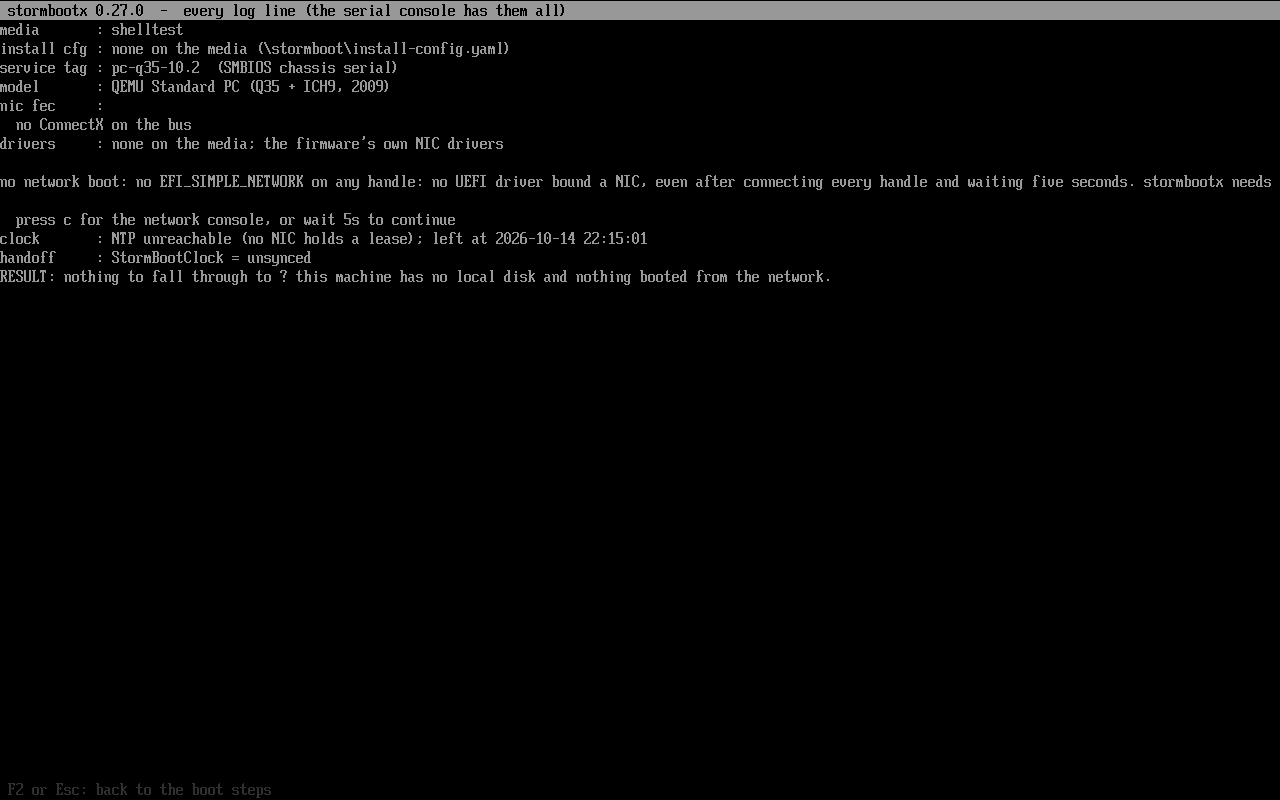
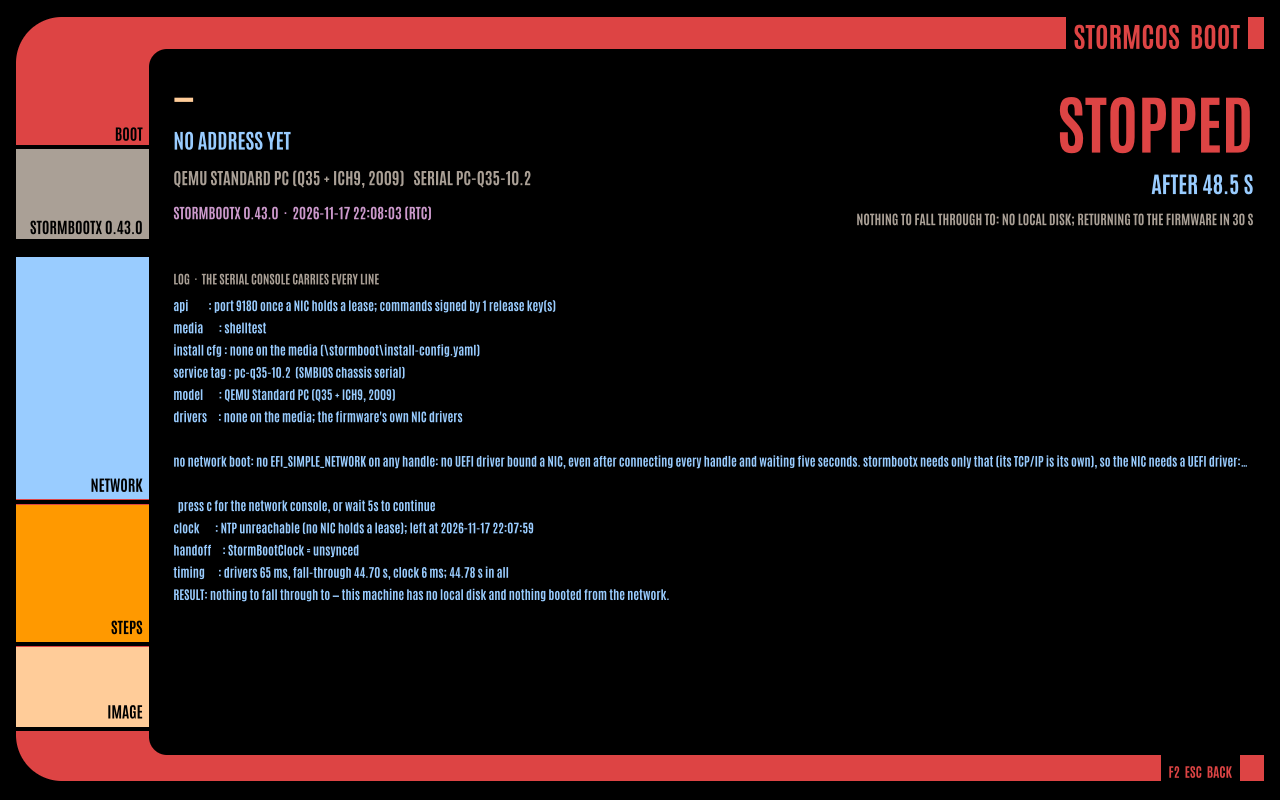
fix(#220): a problem cut at two lines ends with an ellipsis; README screenshots of the new panel

Changed region(s): [[0.0, 0.0, 1.0, 1.0], [0.3438, 0.2812, 0.5, 0.3125], [0.5625, 0.3438, 0.625, 0.375]]

diff --git a/src/ui.rs b/src/ui.rs
@@ -835,6 +835,11 @@ fn wrap(s: &str, px: f32, max: f32, n: usize) -> Vec<String> {
         if !cur.is_empty() && font::text_width(&next, px) > max {
             out.push(core::mem::replace(&mut cur, String::from(word)));
             if out.len() == n {
+                // More follows: the last line says so (`text_fit` cuts it
+                // to fit, ellipsis and all).
+                if let Some(last) = out.last_mut() {
+                    last.push_str(" …");
+                }
                 return out;
             }
         } else {
